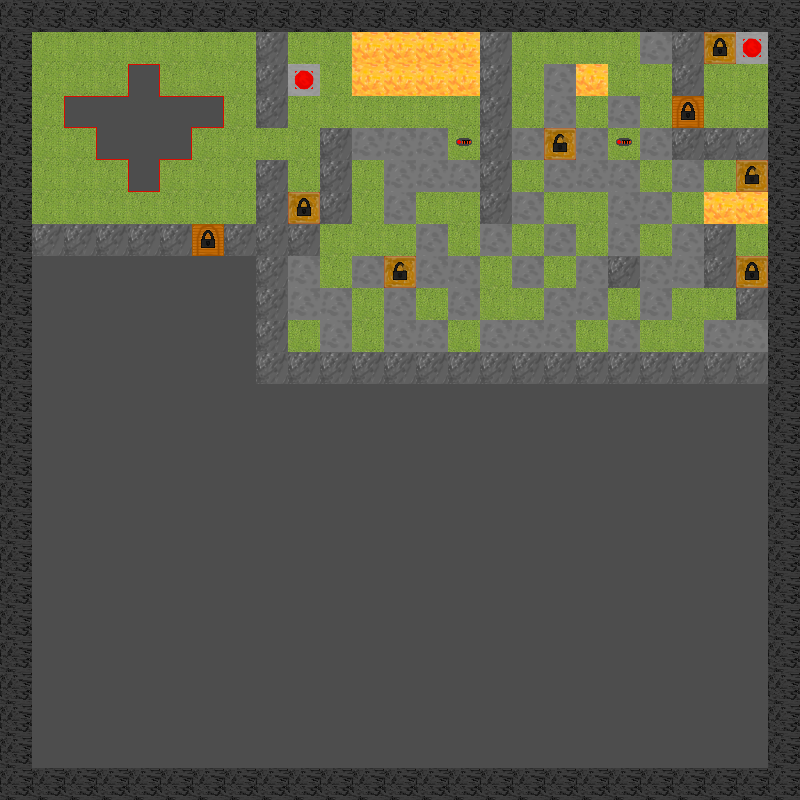
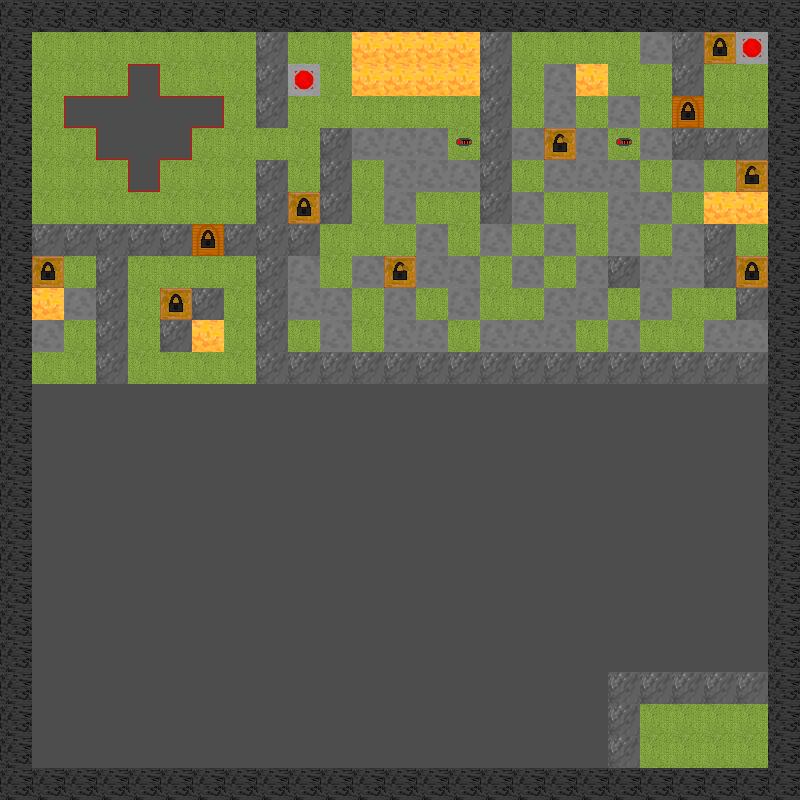
Trying adding Loading Screen

Changed region(s): [[0.0312, 0.3125, 0.3438, 0.5], [0.75, 0.8438, 0.9688, 0.9688]]

diff --git a/src/ch/g_7/gridRunner/gui/main/MainView.java b/src/ch/g_7/gridRunner/gui/main/MainView.java
@@ -1,8 +1,12 @@
 package ch.g_7.gridRunner.gui.main;
 
 import java.awt.Color;
+import java.awt.Label;
 import java.awt.event.ActionEvent;
 import java.awt.event.ActionListener;
+import java.util.ArrayList;
+import java.util.Iterator;
+import java.util.List;
 
 import javax.swing.ImageIcon;
 import javax.swing.JButton;
@@ -15,35 +19,61 @@ import ch.g_7.gridRunner.gameInstantiation.GameCreator;
 import ch.g_7.gridRunner.gameInstantiation.GameInstace;
 import ch.g_7.gridRunner.resources.Image;
 
-public class MainView extends View<JLabel>{
+public class MainView extends View<JLabel> {
 
 	private JLabel panel = new JLabel();
 	private static MainView instance;
-	
+	private JLabel loadingLabel;
 	
 	private MainView() {
 		panel.setIcon(new ImageIcon(Image.MAIN_VIEW.getPath()));
 		panel.setLocation(GUISize.MENUE_WIDTH,0);
 		panel.setSize(GUISize.WINDOW_CONTENT_WIDTH-GUISize.MENUE_WIDTH, GUISize.WINDOW_CONTENT_HEIGHT);
 		
-		JButton startGame = new JButton("Start!");
-		startGame.setLocation(640, 706);
+		JButton startGame = new JButton();
+		startGame.setLocation(640, 704);
 		startGame.setSize(128, 64);
 		startGame.setBorderPainted(false); 
-		//startGame.setContentAreaFilled(false); 
+
 		startGame.setFocusPainted(false); 
-		//startGame.setOpaque(false);
 		startGame.setBackground(new Color(150,49,48));
-		startGame.updateUI();
+		startGame.setIcon(new ImageIcon(Image.START.getPath()));
 		startGame.addActionListener(new ActionListener() {
 			@Override
 			public void actionPerformed(ActionEvent e) {
+				setLoading(true);
+				GameCreator creator = new GameCreator();
+				creator.createGame(new GameCreationEvent(false,"map1"));
+				GameInstace game = creator.getGame();
+				while (game == null) {
+					game = creator.getGame();
+					
+				}
+				
 				GameScreen screen = new GameScreen();
+				screen.start(game);
 				Window.getInstance().setScreen(screen);
-				screen.start(GameCreator.getNewGame(new GameCreationEvent(true,"map1")));
 			}
 		});
 		panel.add(startGame);
+		
+		loadingLabel = new JLabel();
+		loadingLabel.setLocation(128, 256);
+		loadingLabel.setSize(128,128);
+		panel.add(loadingLabel);
+
+		startGame.updateUI();
+	}
+
+	public void setLoading(boolean b) {
+		if(b) {
+			loadingLabel.setIcon(new ImageIcon(Image.LOADING.getPath()));
+		}else {
+			loadingLabel.setIcon(null);
+		}
+		loadingLabel.updateUI();
+		getPanel().updateUI();
+		Window.getInstance().repaint();
 	}
 	
 	@Override

diff --git a/src/ch/g_7/gridRunner/fields/Player.java b/src/ch/g_7/gridRunner/fields/Player.java
@@ -11,44 +11,48 @@ import ch.g_7.gridRunner.resources.Image;
 public class Player extends BasicGridRunnerField implements Movable{
 
 	private ClientId cleintId;
-	private int player;
+	private int playerNr;
 	
 	public Player(int player) {
 		super(Image.valueOf("PLAYER" + player + "_UP"));
-		this.player = player;
+		this.playerNr = player;
 	}
 
 	@Override
 	public boolean moveUp(int d) {
-		setIcon(Image.valueOf("PLAYER" + player + "_UP"));
+		setIcon(Image.valueOf("PLAYER" + playerNr + "_UP"));
 		return move(new Dimension(0, -d));
 	}
 	
 	@Override
 	public boolean moveDown(int d) {
-		setIcon(Image.valueOf("PLAYER" + player + "_DOWN"));
+		setIcon(Image.valueOf("PLAYER" + playerNr + "_DOWN"));
 		return move(new Dimension(0, d));
 	}
 	
 	@Override
 	public boolean moveLeft(int d) {
-		setIcon(Image.valueOf("PLAYER" + player + "_LEFT"));
+		setIcon(Image.valueOf("PLAYER" + playerNr + "_LEFT"));
 		return move(new Dimension(-d, 0));
 	}
 	
 	@Override
 	public boolean moveRight(int d) {
-		setIcon(Image.valueOf("PLAYER" + player + "_RIGHT"));
+		setIcon(Image.valueOf("PLAYER" + playerNr + "_RIGHT"));
 		return move(new Dimension(d, 0));
 	}
 	
 	@Override
 	public FieldCode getCode() {
-		return new FieldCode("PLAYER",String.valueOf(player));
+		return new FieldCode("PLAYER",String.valueOf(playerNr));
 	}
 
 	public void setCleintId(ClientId cleintId) {
 		this.cleintId = cleintId;
+	}
+	
+	public int getPlayerNr() {
+		return playerNr;
 	}
 	
 	public ClientId getCleintId() {
@@ -60,7 +64,9 @@ public class Player extends BasicGridRunnerField implements Movable{
 	}
 	
 	public void setPlayerStatus(PlayerStatus status) {
-		setPosition(status.getPosition());
-		this.setIcon(status.getImage());
+		if(!getPosition().equals(status.getPosition())) {
+			setPosition(status.getPosition());
+			this.setIcon(status.getImage());
+		}
 	}
 }

diff --git a/src/ch/g_7/gridRunner/resources/Image.java b/src/ch/g_7/gridRunner/resources/Image.java
@@ -1,11 +1,15 @@
 package ch.g_7.gridRunner.resources;
 
-public enum Image {
+import java.io.Serializable;
+
+public enum Image implements Serializable{
+	
 	PLAYER1_UP("resources/players/PLAYER1-UP.png"),
 	PLAYER1_LEFT("resources/players/PLAYER1-LEFT.png"),
 	PLAYER1_DOWN("resources/players/PLAYER1-DOWN.png"),
 	PLAYER1_RIGHT("resources/players/PLAYER1-RIGHT.png"),
-	PLAYER2_UP("resources/players/PLAYER2-UP.png"),
+	//PLAYER2_UP("resources/players/PLAYER2-UP.png"),
+	PLAYER2_UP("resources/players/f1.png"),
 	PLAYER2_LEFT("resources/players/PLAYER2-LEFT.png"),
 	PLAYER2_DOWN("resources/players/PLAYER2-DOWN.png"),
 	PLAYER2_RIGHT("resources/players/PLAYER2-RIGHT.png"),
@@ -13,7 +17,9 @@ public enum Image {
 	GRASS("resources/fields/GRASS.png"),
 	ROCK("resources/fields/ROCK.png"),
 	
-	MAIN_VIEW("resources/images/MAIN-VIEW.png");
+	MAIN_VIEW("resources/images/MAIN-VIEW.png"),
+	START("resources/images/START.png"),
+	LOADING("resources/images/LOADING.gif");
 	
 	
 	private String path;

diff --git a/src/ch/g_7/gridRunner/playerStatus/PlayerStatusApplier.java b/src/ch/g_7/gridRunner/playerStatus/PlayerStatusApplier.java
@@ -2,6 +2,8 @@ package ch.g_7.gridRunner.playerStatus;
 
 import java.rmi.RemoteException;
 
+import javax.swing.plaf.SliderUI;
+
 import ch.g_7.gridRunner.fields.Player;
 import ch.g_7.gridRunner.server.playerStatus.PlayerStatusAgent;
 
@@ -17,10 +19,11 @@ public class PlayerStatusApplier extends PlayerStatusWorker{
 		while(run) {
 			try {
 				PlayerStatus status = playerStatusAgent.getPlayerStatus(player.getCleintId());
-				if(status != null && !status.hasMistaces() && !player.getPosition().equals(status.getPosition())) {
+				if(status != null && status.isValid()) {
 					player.setPlayerStatus(status);
 				}
-			} catch (RemoteException e) {
+				Thread.sleep(20);
+			} catch (RemoteException | InterruptedException e) {
 				e.printStackTrace();
 			} 
 		}

diff --git a/src/ch/g_7/gridRunner/gameInstantiation/GameCreator.java b/src/ch/g_7/gridRunner/gameInstantiation/GameCreator.java
@@ -15,11 +15,11 @@ import ch.g_7.gridRunner.playerStatus.PlayerStatusSender;
 import ch.g_7.gridRunner.server.game.GameAgent;
 import ch.g_7.gridRunner.server.gameCreation.OnlineGameInstance;
 
-public class GameCreator {
+public class GameCreator{
 
-	public static GameInstace getNewGame(GameCreationEvent event) {
+
+	public GameInstace createGame(GameCreationEvent event) {
 		GameInstace game = new GameInstace();
-
 		if (event.isLocal()) {
 			game.setGrid(new MapReader(new File("resources/maps/" + event.getMapName() + ".xml")).read());
 			game.addController(new Controller(game.getPlayer(1), KeySet.WASD));
@@ -52,4 +52,5 @@ public class GameCreator {
 		}
 		return game;
 	}
+
 }

diff --git a/src/ch/g_7/gridRunner/main/GridRunner.java b/src/ch/g_7/gridRunner/main/GridRunner.java
@@ -26,7 +26,12 @@ public class GridRunner {
 		JFrame window = new JFrame("Grid Runner");
 		window.getContentPane().setLayout(null);
 		
-		GameInstace game = GameCreator.getNewGame(new GameCreationEvent(true,"map1"));
+		GameCreator creator = new GameCreator();
+		creator.createGame(new GameCreationEvent(true,"map1"));
+		GameInstace game = creator.getGame();
+		while (game == null) {
+			game = creator.getGame();
+		}
 		
 		FieldGrid grid = game.getGrid();
 		grid.getPanel().setLocation(new Point(0, 0));

diff --git a/src/ch/g_7/gridRunner/fields/BasicGridRunnerField.java b/src/ch/g_7/gridRunner/fields/BasicGridRunnerField.java
@@ -14,6 +14,7 @@ public abstract class BasicGridRunnerField extends ImagedField{
 	
 	public BasicGridRunnerField(Image image) {
 		super(new ImageIcon(image.getPath()));
+		this.image = image;
 	}
 
 	public void doDamage() {
@@ -22,11 +23,8 @@ public abstract class BasicGridRunnerField extends ImagedField{
 	
 	public void setIcon(Image image) {
 		setIcon(new ImageIcon(image.getPath()));
+		this.image = image;
 	}
 
-	@Override
-	public FieldCode getCode() {
-		return super.getCode();
-	}
 	
 }

diff --git a/src/ch/g_7/gridRunner/gui/main/GUISize.java b/src/ch/g_7/gridRunner/gui/main/GUISize.java
@@ -3,7 +3,7 @@ package ch.g_7.gridRunner.gui.main;
 public class GUISize {
 	
 	public static final int WINDOW_WIDTH = 1024 + 16;
-	public static final int WINDOW_HEIGHT = 800 + 38;
+	public static final int WINDOW_HEIGHT = 800 + 39;
 	public static final int WINDOW_CONTENT_HEIGHT = 800;
 	public static final int WINDOW_CONTENT_WIDTH = 1024;
 	public static final int MENUE_WIDTH = 224;

diff --git a/src/ch/g_7/gridRunner/connection/ServerConnectionEstablisher.java b/src/ch/g_7/gridRunner/connection/ServerConnectionEstablisher.java
@@ -11,7 +11,7 @@ import ch.g_7.gridRunner.server.playerStatus.PlayerStatusAgent;
 
 public class ServerConnectionEstablisher{
 
-	private static final String DOMAIN = "rmi://192.168.1.114:1109/";
+	private static final String DOMAIN = "rmi://localhost:1109/";
 	
 	private static GameAgent gameAgent;
 	private static PlayerStatusAgent playerStatusAgent;

diff --git a/src/ch/g_7/gridRunner/playerStatus/PlayerStatusSender.java b/src/ch/g_7/gridRunner/playerStatus/PlayerStatusSender.java
@@ -17,7 +17,8 @@ public class PlayerStatusSender extends PlayerStatusWorker{
 		while(run) {
 			try {
 				playerStatusAgent.setPlayerStatus(player.getCleintId(), player.getPlayerStatus());
-			} catch (RemoteException e) {
+				Thread.sleep(20);
+			} catch (RemoteException | InterruptedException e) {
 				e.printStackTrace();
 			}
 		}

diff --git a/src/ch/g_7/gridRunner/playerStatus/PlayerStatus.java b/src/ch/g_7/gridRunner/playerStatus/PlayerStatus.java
@@ -25,7 +25,8 @@ public class PlayerStatus implements Serializable{
 		return position;
 	}
 
-	public boolean hasMistaces() {
-		return image == null || position == null;
+	public boolean isValid() {
+		return image != null && position != null;
 	}
+
 }
